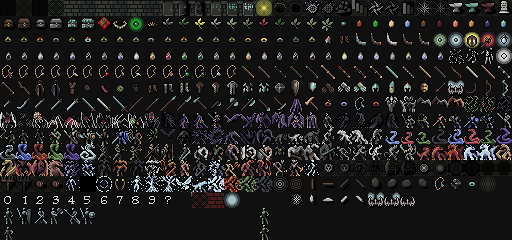
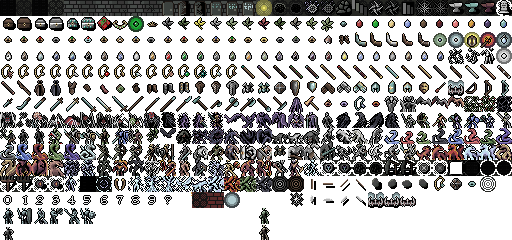
OS X:  for Microchasm's tiles, handle the color to be treated as transparent in the addition of the alpha channel during the BMP to PNG conversion since that makes compositing easier.  lib/xtra/graf/osx_bmp2png.py is the script that was used to do the conversion.

diff --git a/lib/xtra/graf/osx_bmp2png.py b/lib/xtra/graf/osx_bmp2png.py
@@ -1,0 +1,130 @@
+"""
+Converts a tile set from bmp to png for use with the Mac OS X frontend.
+
+Usage
+    python osx_bmp2png.py input_file output_file [options]
+
+Options
+--tcoord hcoord vcoord
+    Reads the color to be treated as transparent for non-terrain tiles
+    from the position (hcoord, vcoord) in the tile set.  Both coordinates
+    are non-negative integers indexed from zero.  Is overridden by
+    --transparent if that option is set.  When not set, the default is to
+    read the color to be treated as transparent from (0,0).
+
+--terrain lx1 ly1 ux1 uy1 ...
+    Sets bounding boxes for parts of the tile set that are to be treated
+    as completely opaque (i.e. as background terrain).  Each bound box is
+    given by the coordinates for the lower corner, (lx,ly), and upper
+    corner, (ux,uy), with ux > lx and uy > ly.  If not set, the default
+    is to use two bounding boxes, (0,0) to (496,16) and (192,192) to
+    (224,208), which are the terrain tiles in Michrochasm's tile set.
+
+--transparent red green blue
+    Sets the color, as RGB values between 0 and 255, which will be treated
+    as completely transparent for non-terrain tiles.  If not set, uses
+    --tcoord or its default to get the color.
+
+Example
+This is the conversion that was used to ready Microchasm's tile set for
+the OS X front end:
+    python osx_bmp2png.py 16x16.bmp 16x16_microchasm.png
+That is equivalent to
+    python osx_bmp2png.py 16x16.bmp 16x16_microchasm.png --tcoord 0 0 \
+        --terrain 0 0 496 16 192 192 224 208
+
+Requirements
+argparse, PIL (Python imaging library) or equivalent, and
+numpy (1.7 or later)
+
+For Michrochasm's tile set the conversion is required because
+CGImageSourceCreateWithURL() does not handle the bmp format and because
+there appears to be no NSCompositingOperation which is equivalent to
+'composite this image with the background treating x as transparent'.
+"""
+
+import argparse
+import PIL.Image
+import numpy
+
+aparser = argparse.ArgumentParser(description='Converts bmp tile set to png.')
+aparser.add_argument('input_file', type=str,
+        help='the path to the input tile set')
+aparser.add_argument('output_file', type=str,
+        help='the path to the converted tile set')
+aparser.add_argument('--tcoord', type=int, nargs=2, default=(0,0),
+        help='Position to be read for transparent color')
+aparser.add_argument('--terrain', type=int, nargs='+',
+        default=(0,0,496,16,192,192,224,208),
+        help='Bounding box coordinates for terrain tiles')
+aparser.add_argument('--transparent', type=int, nargs=3,
+        help='RGB value to be treated as transparent')
+
+args = aparser.parse_args()
+
+tin = PIL.Image.open(args.input_file)
+
+if len(args.terrain) % 4 != 0:
+        raise IndexError('Need four values for each bounding box.')
+for i in range(0, len(args.terrain), 4):
+        if (args.terrain[i] > args.terrain[i + 2] or
+                        args.terrain[i + 1] > args.terrain[i + 3]):
+                raise RuntimeError('Lower bounding box coordinate exceeds the upper one')
+        if (args.terrain[i] < 0 or args.terrain[i + 2] > tin.width or
+                        args.terrain[i + 1] < 0 or
+                        args.terrain[i + 3] > tin.height):
+                raise IndexError('Bounding box outside of image bounds')
+
+palette = tin.getpalette()
+
+if args.transparent:
+        trind = None
+        trarr = numpy.array(args.transparent)
+else:
+        if (args.tcoord[0] < 0 or args.tcoord[0] >= tin.width or
+                        args.tcoord[1] < 0 or args.tcoord[1] >= tin.height):
+                raise IndexError('Coordinates for transparent pixel are out of bounds')
+        if palette:
+                trind = tin.getpixel(tuple(args.tcoord))
+        else:
+                trarr = numpy.array(tin.getpixel(args.tcoord)[0:3])
+
+# Set up the mask for the portions of the tile set not containing terrain.
+arrt = numpy.ones((tin.height, tin.width), dtype=numpy.dtype(bool))
+ind0, ind1 = numpy.meshgrid(numpy.linspace(0, tin.height - 1, tin.height),
+        numpy.linspace(0, tin.width - 1, tin.width), indexing='ij')
+for i in range(0, len(args.terrain), 4):
+        arrt = numpy.logical_and(arrt, numpy.logical_or(numpy.logical_or(
+                ind1 < args.terrain[i], ind0 < args.terrain[i + 1]),
+                numpy.logical_or(ind1 >= args.terrain[i + 2],
+                ind0 >= args.terrain[i + 3])))
+del ind0, ind1
+
+arrin = numpy.array(tin)
+arrout = numpy.empty((tin.height,tin.width,4), dtype='u1')
+if palette:
+        parr = numpy.reshape(numpy.array(palette), (len(palette) // 3, 3))
+        arrout[:,:,0:3] = parr[arrin]
+        if trind:
+                arrout[:,:,3] = numpy.where(
+                        numpy.logical_and(arrt, arrin == trind),
+                        numpy.zeros((tin.height, tin.width), dtype='u1'),
+                        255 * numpy.ones((tin.height, tin.width), dtype='u1'))
+        else:
+                arrout[:,:,3] = numpy.where(
+                        numpy.logical_and(arrt, numpy.logical_and(
+                        arrout[:,:,0] == trarr[0], numpy.logical_and(
+                        arrout[:,:,1] == trarr[1], arrout[:,:,2] == trarr[2]))),
+                        numpy.zeros((tin.height, tin.width), dtype='u1'),
+                        255 * numpy.ones((tin.height, tin.width), dtype='u1'))
+else:
+        arrout[:,:,0:3] = arrin[:,:,0:3]
+        arrout[:,:,3] = numpy.where(
+                numpy.logical_and(arrt, numpy.logical_and(
+                arrin[:,:,0] == trarr[0], numpy.logical_and(
+                arrin[:,:,1] == trarr[1], arrin[:,:,2] == trarr[2]))),
+                numpy.zeros((tin.height, tin.width), dtype='u1'),
+                255 * numpy.ones((tin.height, tin.width), dtype='u1'))
+
+tout = PIL.Image.fromarray(arrout)
+tout.save(args.output_file)
